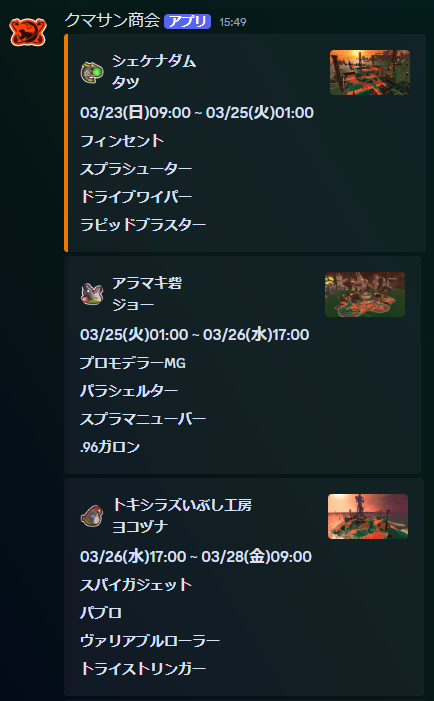
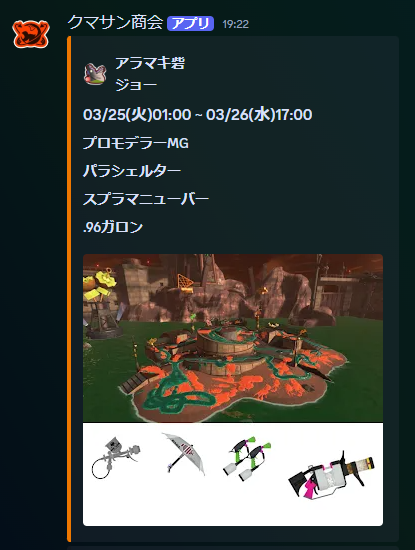
画像生成処理追加 (#1)
* 画像生成処理 実装

* 生成済の画像を流用

* README更新

* 必要な権限を定義

diff --git a/public/main.js b/public/main.js
@@ -8,9 +8,12 @@ const nextUrl = "https://spla3.yuu26.com/api/coop-grouping/next";
 // GoogleDriveURL
 const driveUrl = "http://drive.google.com/uc?export=view&id=";
 
-// 環境変数からWebhookのURLとUserAgentを取得
+// 環境変数からパラメータを取得
 const discordWebhookUrl = PropertiesService.getScriptProperties().getProperty('discordWebhookUrl');
 const userAgent = PropertiesService.getScriptProperties().getProperty('userAgent');
+const folderID = PropertiesService.getScriptProperties().getProperty('folderID');
+// 保存先フォルダ
+const tmpFolder = DriveApp.getFolderById(folderID);
 
 // 表示するシフト数(1~5)
 const shiftCount = 5;
@@ -142,6 +145,9 @@ function postSchedule()
     "thumbnail": {
       "url": null
     },
+    "image": {
+      "url": null
+    },
     "fields": [],
   };
 
@@ -150,6 +156,7 @@ function postSchedule()
   const message = JSON.parse(JSON.stringify(templateMessage));
   let schedule;
   let embed;
+  let fileId;
   // シフトごとにembedを生成
   for (let i = 0; i < limit; i++) {
     schedule = schedules[i];
@@ -165,9 +172,6 @@ function postSchedule()
       "name": schedule.stage.name + "\n" + schedule.boss.name,
       "icon_url": driveUrl + objBosses[schedule.boss.name].fileID,
     };
-    embed.thumbnail = {
-      "url": schedule.stage.image,
-    };
     // ブキ編成
     schedule.weapons.forEach(weapon => {
       embed.fields.push({
@@ -176,6 +180,9 @@ function postSchedule()
         "inline" : false,
       });
     });
+    // 画像生成
+    fileId = createShiftImage(schedule);
+    embed.image.url = driveUrl + fileId;
 
     // ビッグランの場合、authorと色をビッグラン仕様に変更
     if (schedule.is_big_run) {
@@ -190,6 +197,55 @@ function postSchedule()
   }
 
   postToDiscord(message);
+}
+
+// シフト画像生成処理
+function createShiftImage(schedule)
+{
+  let file;
+  const imageFilename = formatDate(schedule.start_time, 'YYYYMMDDTHHmmss');
+  // 既に生成済の画像があればそれを返す
+  const files = tmpFolder.getFilesByName(imageFilename);
+  while (files.hasNext()) {
+    file = files.next();
+    return file.getId();
+  }
+
+  // ブキ画像取得
+  let response;
+  let weaponBlob;
+  let weaponBlobs = [];
+  schedule.weapons.forEach(weapon => {
+    response = UrlFetchApp.fetch(weapon.image);
+    weaponBlob = response.getBlob();
+    weaponBlobs.push(weaponBlob);
+  });
+  // ブキ画像を結合
+  const weaponsObj = {
+    merge: [
+      weaponBlobs,
+    ],
+    outputWidth: 800,
+  };
+  const weaponsBlob = ImgApp.editImage(weaponsObj);
+
+  // ステージ画像とブキ画像を結合
+  response = UrlFetchApp.fetch(schedule.stage.image);
+  const stageBlob = response.getBlob();
+  // ステージとブキ画像を結合
+  const imgObj = {
+    merge: [
+      [stageBlob],
+      [weaponsBlob],
+    ],
+    outputWidth: 300,
+    outputFilename: imageFilename,
+  };
+
+  // Driveに画像を保存
+  const imageBlob = ImgApp.editImage(imgObj);
+  file = tmpFolder.createFile(imageBlob);
+  return file.getId();
 }
 
 // 時間帯を取得

diff --git a/README.md b/README.md
@@ -17,13 +17,24 @@ GAS(GoogleAppsScript)上で動作します。
 1. [Apps Script](https://script.google.com/home)にアクセスします。
 1. 「新しいプロジェクト」をクリックします。
 1. エディタ画面が開くので、[main.js](public/main.js)の内容をコピーして貼り付けます。
-1. dayjsライブラリを追加\
-「ライブラリ」クリック→以下のライブラリIDを入力します。\
-`1ShsRhHc8tgPy5wGOzUvgEhOedJUQD53m-gd8lG2MOgs-dXC_aCZn9lFB`
-1. 環境変数（プロパティ）を設定\
-「プロジェクトの設定」を開き、画面下部の「スクリプト プロパティ」欄に以下を追加します。\
+
+### ライブラリを追加
+1. 「ライブラリ」クリック→以下のライブラリIDを入力します。\
+   - dayjsライブラリ\
+   `1ShsRhHc8tgPy5wGOzUvgEhOedJUQD53m-gd8lG2MOgs-dXC_aCZn9lFB`
+   - [ImgAppライブラリ](https://github.com/tanaikech/ImgApp)\
+   `1T03nYHRho6XMWYcaumClcWr6ble65mAT8OLJqRFJ5lukPVogAN2NDl-y`
+
+### サービスを追加
+1. 「サービス」クリック→以下のサービスを選択します。\
+    - Google Slides API
+    - Drive API
+
+### 環境変数（プロパティ）を設定
+1. 「プロジェクトの設定」を開き、画面下部の「スクリプト プロパティ」欄に以下を追加します。\
     - プロパティ名：`discordWebhookUrl`　値：（Webhookの設定でコピーしたURL）
     - プロパティ名：`userAgent`　値：（自分の連絡先）※例：`discordWebhook(X@user_name)`
+    - プロパティ名：`folderID`　値：（GoogleDriveのフォルダーのID）※共有している必要があります
 
 ### トリガーの設定
 1. 「トリガー」を開き、「トリガーを追加」をクリックします。
@@ -44,5 +55,6 @@ https://spla3.yuu26.com/ を使わせてもらってます。\
 急に使えなくなるかもしれませんのでご留意ください。
 
 ## ブキ編成の画像について
-未実装\
-いずれ実装するかもしれません。
+追加実装しました。
+ブキごとに画像サイズが異なるので少し崩れてます。
+調整検討中
